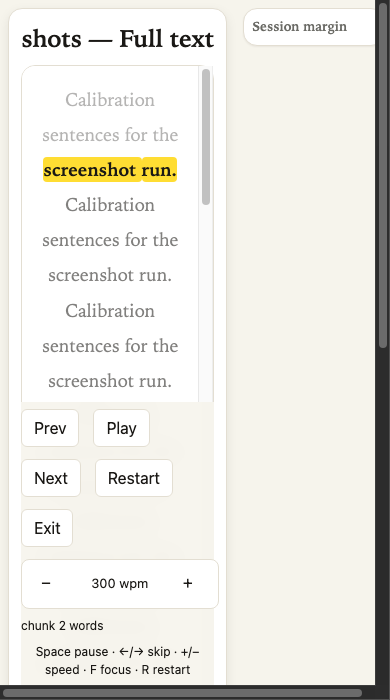
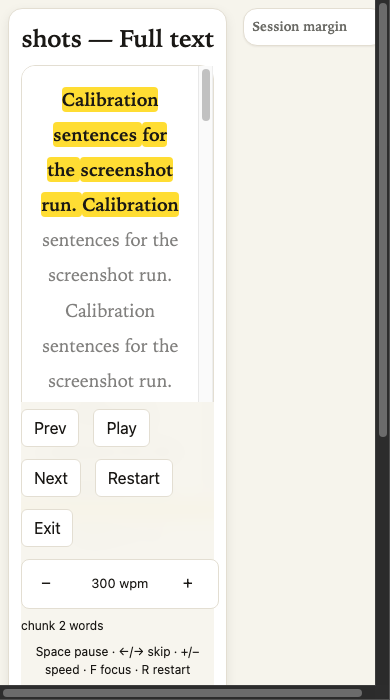
Ticket 31: whole-line highlight in page mode, pannable canvas, page-width dial

Changed region(s): [[0.0923, 0.12, 0.4615, 0.33], [0.9538, 0.48, 1.0, 0.63], [0.4923, 0.15, 0.5538, 0.3]]

diff --git a/src/ui/player-view.js b/src/ui/player-view.js
@@ -13,7 +13,7 @@ export function createPlayerView(root, { onSessionEnd, onExit, onSettingsChange,
   let player = null;
   let chunkCount = 0;
   let currentWpm = 300;
-  let settings = { fontScale: 1, textAlign: 'center', orpEnabled: true, chunkSize: 2, reducedMotion: 'auto', drill: false, previewWords: 2, readingMode: 'page', highlightWidth: 2 };
+  let settings = { fontScale: 1, textAlign: 'center', orpEnabled: true, chunkSize: 2, reducedMotion: 'auto', drill: false, previewWords: 2, readingMode: 'page', highlightWidth: 2, pageWidth: 'medium' };
   let recognitionCorrect = 0;
   let recognitionTotal = 0;
   let srMode = false;
@@ -140,10 +140,15 @@ export function createPlayerView(root, { onSessionEnd, onExit, onSettingsChange,
     ['line', 'Line (centred focus)'],
     ['rsvp', 'RSVP (word stream)'],
   ]);
-  // Highlight width = the fixation group size (2-3 words matches the
-  // perceptual span; wider is phrase pacing, not one-fixation training).
-  const highlightWidthSel = makeSelect('Highlight width', 'highlight-width', [
+  // Highlight width = the fixation group size in Line mode (2-3 words matches
+  // the perceptual span; wider is phrase pacing, not one-fixation training).
+  const highlightWidthSel = makeSelect('Group width (Line)', 'highlight-width', [
     ['1', '1 word'], ['2', '2 words'], ['3', '3 words'], ['4', '4 words'], ['5', '5 words'], ['6', '6 words'],
+  ]);
+  // Page width = the rendered column measure; wider lines mean longer highlight
+  // units in Page mode (the whole rendered line is the highlight).
+  const pageWidthSel = makeSelect('Page width', 'page-width', [
+    ['narrow', 'Narrow (46ch)'], ['medium', 'Medium (62ch)'], ['wide', 'Wide (80ch)'],
   ]);
 
   // Session goal controls live inside the Session disclosure; app.js persists via onGoalChange.
@@ -353,17 +358,36 @@ export function createPlayerView(root, { onSessionEnd, onExit, onSettingsChange,
     if (group.firstChunk < pageWindow.start + PAGE_WINDOW / 3 || group.firstChunk > pageWindow.end - PAGE_WINDOW / 3) {
       renderPageWindow(group.firstChunk);
     }
-    // Word-precise highlight: the group is `highlightWidth` words, which may
-    // straddle chunk boundaries.
-    let anchor = null;
-    for (const el of readerPage.querySelectorAll('.reader-word')) {
-      const w = Number(el.dataset.word);
-      const inGroup = w >= group.startWord && w < group.endWord;
-      el.classList.toggle('is-current', inGroup);
-      el.classList.toggle('is-read', w < group.startWord);
-      if (inGroup && !anchor) anchor = el.closest('.reader-chunk');
+    // Whole-line highlight, measured live: every word sharing the anchor word's
+    // laid-out top is on the current rendered line (self-correcting, no cache).
+    const words = readerPage.querySelectorAll('.reader-word');
+    if (words.length === 0) return;
+    let anchorWord = null;
+    for (const el of words) {
+      if (Number(el.dataset.word) === group.startWord) { anchorWord = el; break; }
     }
-    if (anchor) anchor.scrollIntoView({ block: 'center', behavior: 'auto' });
+    if (!anchorWord) { words[0].classList.add('is-current'); return; }
+    const top = anchorWord.offsetTop;
+    let anchor = null;
+    for (const el of words) {
+      const elTop = el.offsetTop;
+      const inLine = Math.abs(elTop - top) <= 4;
+      el.classList.toggle('is-current', inLine);
+      el.classList.toggle('is-read', elTop < top - 4);
+      if (inLine && !anchor) anchor = el.closest('.reader-chunk');
+    }
+    // Keep the focus line visible without fighting a manual pan: only recentre
+    // when it would leave the viewport, and scroll the canvas directly
+    // (scrollIntoView would scroll the window instead of the canvas).
+    if (anchor) {
+      const r = anchor.getBoundingClientRect();
+      const pr = readerPage.getBoundingClientRect();
+      const margin = 48;
+      if (r.top < pr.top + margin || r.bottom > pr.bottom - margin) {
+        const posInCanvas = r.top - pr.top + readerPage.scrollTop;
+        readerPage.scrollTop = Math.max(0, posInCanvas - readerPage.clientHeight / 2);
+      }
+    }
     pageIndex = index;
   }
 
@@ -400,12 +424,42 @@ export function createPlayerView(root, { onSessionEnd, onExit, onSettingsChange,
     player.seek(Math.min(chapterChunks.length - 1, nextChunk));
   });
 
+  // Drag-to-pan the reading canvas (ticket 31): pointer drag scrolls the page;
+  // a short press without movement stays a click-to-seek.
+  let panning = false;
+  let panMoved = false;
+  let panStart = null;
+
+  readerPage.addEventListener('pointerdown', (event) => {
+    if (event.button !== 0) return;
+    panning = true;
+    panMoved = false;
+    panStart = { x: event.clientX, y: event.clientY, top: readerPage.scrollTop };
+    readerPage.setPointerCapture?.(event.pointerId);
+    readerPage.classList.add('is-panning');
+  });
+  readerPage.addEventListener('pointermove', (event) => {
+    if (!panning || !panStart) return;
+    const dy = event.clientY - panStart.y;
+    if (!panMoved && Math.abs(dy) < 5 && Math.abs(event.clientX - panStart.x) < 5) return;
+    panMoved = true;
+    readerPage.scrollTop = panStart.top - dy;
+  });
+  const endPan = () => {
+    panning = false;
+    readerPage.classList.remove('is-panning');
+  };
+  readerPage.addEventListener('pointerup', endPan);
+  readerPage.addEventListener('pointercancel', endPan);
+
   readerPage.addEventListener('click', (event) => {
+    if (panMoved) { panMoved = false; return; } // a drag is not a seek
     const el = event.target.closest?.('.reader-chunk');
     if (!el || !player) return;
     const index = Number(el.dataset.chunk);
     if (Number.isInteger(index)) player.seek(index);
   });
+
 
   function validGoal(g) {
     return !!g && ['wpm', 'words', 'time'].includes(g.type) && Number.isFinite(Number(g.target)) && Number(g.target) > 0;
@@ -450,6 +504,12 @@ export function createPlayerView(root, { onSessionEnd, onExit, onSettingsChange,
     readerPage.hidden = mode !== 'page';
     readerLine.hidden = mode !== 'line';
     stage.hidden = mode !== 'rsvp';
+    const width = settings.pageWidth ?? 'medium';
+    readerPage.classList.toggle('w-narrow', width === 'narrow');
+    readerPage.classList.toggle('w-medium', width === 'medium');
+    readerPage.classList.toggle('w-wide', width === 'wide');
+    // Line wrapping depends on layout; repaint once the page is visible.
+    if (mode === 'page') requestAnimationFrame(() => paintPage(pageIndex));
   }
 
   function renderChunk({ chunk, orpParts, lookahead }) {
@@ -552,6 +612,7 @@ export function createPlayerView(root, { onSessionEnd, onExit, onSettingsChange,
   drillSel.addEventListener('change', () => onSettingsChange?.({ drill: drillSel.value === 'on' }));
   readingModeSel.addEventListener('change', () => onSettingsChange?.({ readingMode: readingModeSel.value }));
   highlightWidthSel.addEventListener('change', () => onSettingsChange?.({ highlightWidth: Number(highlightWidthSel.value) }));
+  pageWidthSel.addEventListener('change', () => { onSettingsChange?.({ pageWidth: pageWidthSel.value }); });
   previewSel.addEventListener('change', () => onSettingsChange?.({ previewWords: Number(previewSel.value) }));
   motionSel.addEventListener('change', () => {
     onSettingsChange?.({ reducedMotion: motionSel.value });
@@ -756,6 +817,7 @@ export function createPlayerView(root, { onSessionEnd, onExit, onSettingsChange,
     previewSel.value = String(settings.previewWords ?? 2);
     readingModeSel.value = settings.readingMode ?? 'page';
     highlightWidthSel.value = String(settings.highlightWidth ?? 2);
+    pageWidthSel.value = settings.pageWidth ?? 'medium';
     applyReadingMode();
     if (typeof settings.wpm === 'number') currentWpm = settings.wpm;
     speedValue.textContent = `${Math.round(currentWpm)} wpm`;

diff --git a/styles/app.css b/styles/app.css
@@ -223,9 +223,11 @@ label { margin-right: 10px; }
 .reader-page {
   max-width: 62ch;
   margin: 0 auto;
-  max-height: 58vh;
+  box-sizing: border-box;
+  max-height: 62vh;
   overflow-y: auto;
-  padding: var(--space-4) var(--space-4) 40vh;
+  overflow-x: hidden;
+  padding: var(--space-4);
   background: var(--color-surface);
   border: 1px solid var(--rule);
   border-radius: var(--radius-lg);
@@ -233,7 +235,13 @@ label { margin-right: 10px; }
   font-size: 1.125rem;
   line-height: 1.95;
   scroll-behavior: auto;
+  cursor: grab;
+  touch-action: none;
 }
+.reader-page.w-narrow { max-width: 46ch; }
+.reader-page.w-medium { max-width: 62ch; }
+.reader-page.w-wide { max-width: 80ch; }
+.reader-page.is-panning { cursor: grabbing; user-select: none; }
 .reader-para { margin: 0 0 1.1em; }
 .reader-chunk { border-radius: var(--radius-sm); padding: 1px 0; cursor: pointer; }
 /* The rest is dimmed; the current fixation group is highlighted at word level. */

diff --git a/src/app.js b/src/app.js
@@ -32,6 +32,7 @@ const DEFAULT_SETTINGS = {
   goals: {},
   readingMode: 'page',
   highlightWidth: 2,
+  pageWidth: 'medium',
 };
 
 const sections = {

diff --git a/.autoforge/decisions/log.md b/.autoforge/decisions/log.md
@@ -73,3 +73,4 @@ One line per orchestrator decision. Append-only.
 | 66 | 2026-09-24 | run-003-hc-c-repair | HC-C repair wave: 25 mobile bar overlap (nav-only bar + safe-area + padding; hit tests fixed), 26 library fidelity (card shelf, import card, header shell; fixed global text-align leak, toolbar stretch, danger outline, main focus ring), 27 player fidelity (two-column, ruled stage, rail card, speed cluster, F key), 28 dashboard+quiz fidelity (card sections, summary typography, quiz cards). All green: walkthrough 100/100, unit 177/177, a11y 17/17, harnesses+perf green; screenshots re-shot. Tickets 25-28 closed | user-reported: "looks nothing like the prototypes; most buttons not working" — mobile overlap reproduced, prototype visuals never ported; now ported |
 | 67 | 2026-09-24 | run-003-page-mode | Ticket 29: guided-highlight Page mode (user-directed; research: guided highlight preserves comprehension vs RSVP). Page renders chapter, focus chunk highlighted, rest dimmed, windowed, click-to-seek, auto-scroll; RSVP stays as a toggle (settings.readingMode, default page). Walkthrough 103/103 GO, unit 177/177, a11y 17/17, harnesses+perf green | research summary in ticket 29; README updated with the two-mode evidence posture |
 | 68 | 2026-09-24 | run-003-width-line | Ticket 30: highlight width 1-6 words (default 2, word-precise groups) + centred-line fixation mode with faint neighbours; research cited in ticket (perceptual span 3-4 left/14-15 right chars; 2-word window slow readers, 3-word fast; line-highlight study 225-360wpm stable). Walkthrough 105/105 GO, unit 177/177, a11y 17/17, harnesses+perf green; screenshots re-shot | user asked "is one-fixation-per-line true?" — answered with evidence; built the honest version |
+| 69 | 2026-09-24 | run-003-line-canvas | Ticket 31: Page mode = whole-rendered-line highlight (live measurement), pannable canvas (drag, no-seek guard, recentre-only-when-out-of-view), Page width dial 46/62/80ch. Fixed: window-scrolling scrollIntoView, content-box phantom padding, pre-layout line cache. Walkthrough 106/106 GO, unit 177/177, a11y 17/17, harnesses+perf green | user direction: entire page + whole-line highlight + drag the canvas |

diff --git a/.scratch/speedreading-product-build/issues/31-line-highlight-pannable-canvas.md b/.scratch/speedreading-product-build/issues/31-line-highlight-pannable-canvas.md
@@ -1,0 +1,18 @@
+# 31: Whole-line highlight + pannable canvas + page-width dial
+
+**Why (user direction):** "show the entire page, highlight the entire line, and the view can be changed by dragging the canvas." Matches the line-by-line highlight method (comprehension stable 225–360 wpm in the 2026 Schwalm/Radach/Kuperman study).
+
+**What changed (Page mode):**
+- Highlight unit = the whole rendered line (live-measured via shared offsetTop; no stale cache), not an N-word group
+- Canvas: fixed-height scrollable page (62vh, border-box), drag-to-pan with pointer capture; a drag never triggers click-to-seek (movement guard); auto-recentre only when the focus line leaves the viewport with margin (no scroll fighting)
+- New "Page width" dial (narrow 46ch / medium 62ch / wide 80ch) reflows lines: wider = longer highlight units
+- "Group width" dial now applies to Line mode only
+
+**Bugs found & fixed:** scrollIntoView scrolled the window instead of the canvas; content-box sizing gave the canvas 400px of phantom padding; line map could be built before layout (replaced with live measurement).
+
+**Status:** closed 2026-09-24
+
+- [x] Whole-line highlight (walkthrough: 10 words, 1 offsetTop)
+- [x] Width dial reflows canvas + line (620->800px, still one line)
+- [x] Drag pans (scrollTop 0->292) without seeking; click-to-seek intact
+- [x] Walkthrough 106/106 GO; unit 177/177; a11y 17/17; harnesses green
